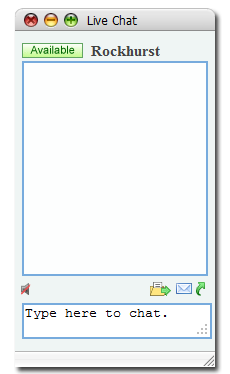
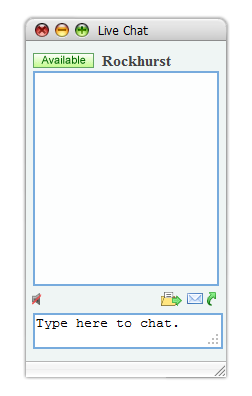
Made the Rockhurst chat image disappear when clicked, and I refined the chat box image

Changed region(s): [[0.0609, 0.0, 0.9739, 1.0]]

diff --git a/opacmenu_s8.html b/opacmenu_s8.html
@@ -87,8 +87,10 @@ obj.submit();
 </div><!-- browseSearchtool -->
 </div><!-- form1Part -->
 
-<div class="needs-js">
-  JavaScript disabled or chat unavailable.
+<div id="chat-widget">
+	<div class="needs-js">
+	  JavaScript disabled or chat unavailable.
+	</div>
 </div>
 
 
@@ -99,6 +101,15 @@ obj.submit();
 </div><!-- pageContent  -->
 
 <div style="clear:both"></div>
+
+<script type="text/javascript">
+  try {
+     window.parent.location.href;
+     document.getElementById('chat-widget').style.display = '';
+  } catch (err) {
+     document.getElementById('chat-widget').style.display = 'none';
+  }
+</script>
 
 <script type="text/javascript">
   (function() {
@@ -112,6 +123,8 @@ obj.submit();
 try { document.forms[0].searcharg.focus(); }
 catch(err) {}
 //--><!]]></script>
+
+
 </body>
 </html>
 
